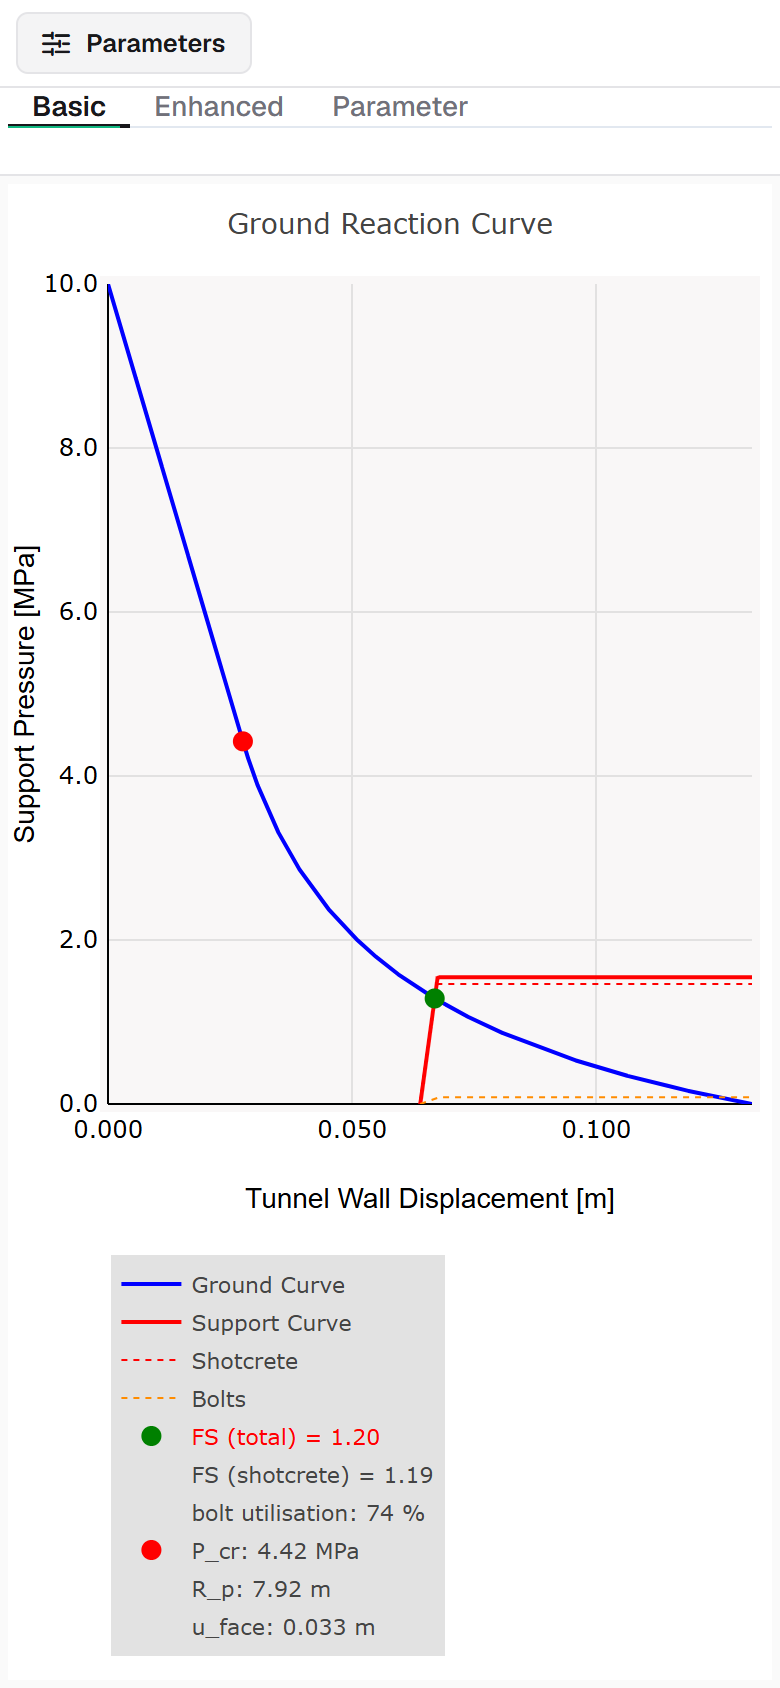
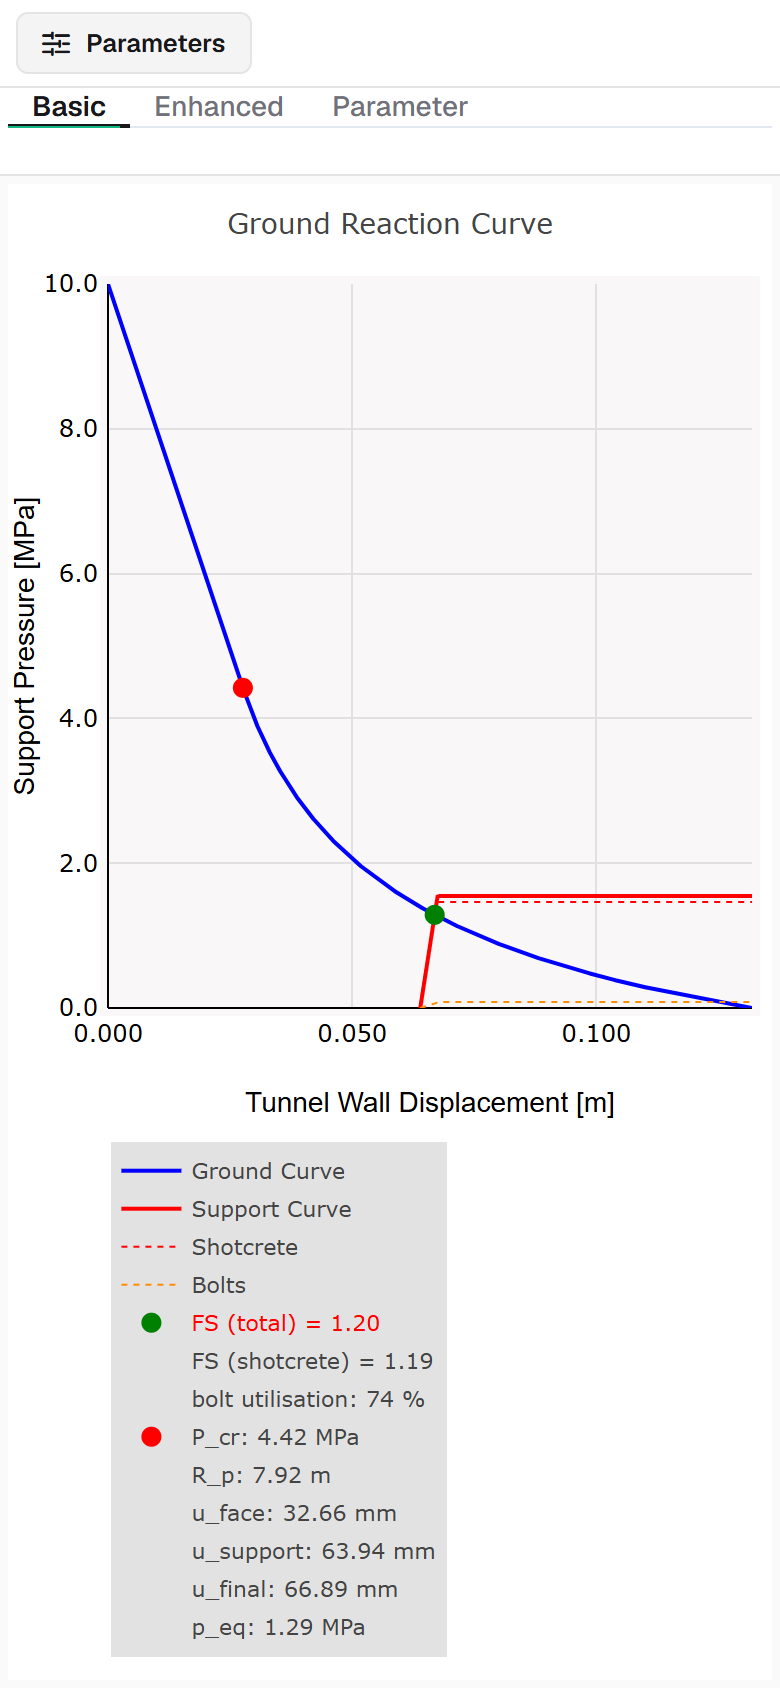
Full hover at the equilibrium and RocSupport-style Basic legend
- Hover at the equilibrium point (Basic and Enhanced) shows u_eq [mm],
  p_eq [MPa] and FS in full via a hovertemplate; hoverlabel.namelength
  -1 so no trace name is cut. The hover comes from an invisible marker
  (size 24) placed first: with the dense ground curve (10000 points) the
  visible marker only won the hover within fractions of a pixel. It now
  wins next to the point; directly on the ground curve line the curve's
  hover still shows.
- Basic legend: u_face in mm (was m), new u_support (u_io), u_final
  (u_eq) in mm with 2 decimals and p_eq in MPa; "-" without equilibrium.
- RocSupport case 3 shows u_face 32.66, u_support 63.94, u_final 67.03 mm,
  FS 1.14 (test in tests/rocsupport_onur.test.js); screenshots Basic
  desktop and phone for case 3, default Basic screenshots updated.

diff --git a/src/physics/groundCurveCalc.js b/src/physics/groundCurveCalc.js
@@ -593,7 +593,19 @@ export function updateGraphic(gamma, H, nu, E, D, c, phi, f_ck, E_c, nu_c, t_c,
         mode: 'markers', type: 'scatter',
         name: !noEquilibrium && Number(safety) < FS_RED_BELOW ? `<span style="color:red">${fsName}</span>` : fsName,
         marker: { color: 'green', size: 10 }, xaxis: 'x1', yaxis: 'y1',
-        ...(noEquilibrium ? { opacity: 0, hoverinfo: 'none', showlegend: true } : {})
+        // the hover at the equilibrium comes from eqHover below
+        ...(noEquilibrium ? { opacity: 0, hoverinfo: 'none', showlegend: true } : { hoverinfo: 'skip' })
+    }
+    // Hover target at the equilibrium point with the full values instead of the (possibly cut) trace
+    // name. It is the first trace: at the marker the ground and support curves are just as close, and
+    // Plotly then shows the first trace.
+    const eqHover = noEquilibrium ? null : {
+        x: [intersect.x], y: [intersect.y], mode: 'markers', type: 'scatter',
+        marker: { color: 'green', size: 24 }, opacity: 0, showlegend: false, xaxis: 'x1', yaxis: 'y1',
+        name: 'equilibrium',
+        hovertemplate: `u_eq = ${(intersect.x * 1000).toFixed(2)} mm<br>` +
+            `p_eq = ${intersect.y.toFixed(3)} MPa<br>` +
+            `${obj.supportComponents ? 'FS (total)' : 'FS'} = ${fsText}<extra></extra>`
     }
     const trace3_1 = {
         x: obj.criticalPoint.x, y: obj.criticalPoint.y,
@@ -606,11 +618,17 @@ export function updateGraphic(gamma, H, nu, E, D, c, phi, f_ck, E_c, nu_c, t_c,
         visible: true, showlegend: true, hoverinfo: 'none', opacity: 0,
         name: `R_p: ${obj.plasticRadius.y[0].toFixed(2)} m`
     }
-    const trace3_4 = {
+    // Basic legend: displacements in mm (2 decimals) as in RocSupport: at the face, at support
+    // installation (u_io) and final at the equilibrium (u_eq), plus the mobilised support pressure
+    const infoEntry = name => ({
         x: [0], y: [0], mode: 'markers', type: 'scatter',
-        visible: true, showlegend: true, hoverinfo: 'none', opacity: 0,
-        name: `u_face: ${obj.u_if.u_if.toFixed(3)} m`
-    }
+        visible: true, showlegend: true, hoverinfo: 'none', opacity: 0, name
+    })
+    const mm = u => `${(u * 1000).toFixed(2)} mm`
+    const trace3_4 = infoEntry(`u_face: ${mm(obj.u_if.u_if)}`)
+    const trace3_5 = infoEntry(`u_support: ${mm(obj.supportCurve.x[0])}`)
+    const trace3_6 = infoEntry(`u_final: ${noEquilibrium ? '–' : mm(intersect.x)}`)
+    const trace3_7 = infoEntry(`p_eq: ${noEquilibrium ? '–' : `${intersect.y.toFixed(2)} MPa`}`)
     const trace3_3 = {
         x: [0], y: [0], mode: 'markers', type: 'scatter',
         visible: true, showlegend: true, hoverinfo: 'none', opacity: 0,
@@ -618,7 +636,7 @@ export function updateGraphic(gamma, H, nu, E, D, c, phi, f_ck, E_c, nu_c, t_c,
     }
 
     const data = [trace1, trace2, trace3, trace3_1]
-    const dataBasic = [trace1, trace2, trace3, trace3_1, trace3_2, trace3_4]
+    const dataBasic = [trace1, trace2, trace3, trace3_1, trace3_2, trace3_4, trace3_5, trace3_6, trace3_7]
     const legendOnly = name => ({
         x: [0], y: [0], mode: 'markers', type: 'scatter',
         visible: true, showlegend: true, hoverinfo: 'none', opacity: 0, name
@@ -668,6 +686,10 @@ export function updateGraphic(gamma, H, nu, E, D, c, phi, f_ck, E_c, nu_c, t_c,
     if (options.showLargeStrain) {
         data.splice(1, 0, trace1_1)
         dataBasic.splice(1, 0, trace1_1)
+    }
+    if (eqHover) {
+        data.unshift(eqHover)
+        dataBasic.unshift(eqHover)
     }
 
     let verticalLines = []
@@ -761,7 +783,7 @@ export function updateGraphic(gamma, H, nu, E, D, c, phi, f_ck, E_c, nu_c, t_c,
     const layout = {
         title: { text: 'Ground Reaction Curve', font: { size: 18 } }, plot_bgcolor: '#f9f7f7', showlegend: true,
         margin: { l: 60, r: 30, b: 60, t: 50, pad: 4 },
-        autosize: true, hovermode: 'closest',
+        autosize: true, hovermode: 'closest', hoverlabel: { namelength: -1 },   // never cut trace names
         xaxis: { rangemode: 'normal', title: { text: 'Tunnel Wall Displacement [m]', font: { family: 'Arial, sans-serif', size: 13 } }, color: 'black', range: [0, maxX], tickformat: '.3f', domain: [0, 0.47], anchor: 'y2' },
         xaxis2: { title: { text: 'Time [days]', font: { family: 'Arial, sans-serif', size: 13 } }, color: 'black', tickformat: '.2f', domain: [0.55, 1], anchor: 'y4' },
         yaxis: { tickformat: '.1f', title: { text: 'Support Pressure [MPa]', font: { family: 'Arial, sans-serif', size: 13 } }, color: 'black', range: [0, maxY], domain: [0.55, 1], rangemode: 'nonnegative' },
@@ -775,7 +797,7 @@ export function updateGraphic(gamma, H, nu, E, D, c, phi, f_ck, E_c, nu_c, t_c,
     const layoutBasic = {
         title: { text: 'Ground Reaction Curve', font: { size: 18 } }, plot_bgcolor: '#f9f7f7', showlegend: true,
         margin: { l: 60, r: 30, b: 60, t: 50, pad: 4 },
-        autosize: true, hovermode: 'closest',
+        autosize: true, hovermode: 'closest', hoverlabel: { namelength: -1 },   // never cut trace names
         xaxis: { rangemode: 'nonnegative', title: { text: 'Tunnel Wall Displacement [m]', font: { family: 'Arial, sans-serif', size: 14 } }, color: 'black', range: [0, maxX], tickformat: '.3f' },
         yaxis: { scaleratio: 0.4, tickformat: '.1f', title: { text: 'Support Pressure [MPa]', font: { family: 'Arial, sans-serif', size: 14 } }, color: 'black', range: [0, maxY], rangemode: 'nonnegative' },
         legend: { traceorder: 'normal', font: { family: 'Arial, sans-serif', size: 16, color: '#000' }, bgcolor: '#E2E2E2', bordercolor: '#FFFFFF', borderwidth: 1.7, x: 0.99, xanchor: 'right', y: 0.99 }

diff --git a/tests/rocsupport_onur.test.js b/tests/rocsupport_onur.test.js
@@ -5,7 +5,9 @@
 // FS is taken unrounded as p_max / p_eq (the app string has three decimals).
 import { test } from 'node:test'
 import assert from 'node:assert/strict'
-import { run } from './helpers.js'
+import { run, ARG_ORDER } from './helpers.js'
+import { updateGraphic } from '../src/physics/groundCurveCalc.js'
+import { calls } from './stubs/plotly.js'
 
 const FALL_1 = {
     D: 10, gamma: 20, H: 350, E: 1800, nu: 0.3, c: 1500, phi: 23, dis_sup: 5, advance_rate: 2,
@@ -67,4 +69,23 @@ test('RocSupport Fall 3 (Nr.3, shotcrete): D 8 m, p0 10 MPa, d_face 2 m (app def
         ['u_face_mm', 32.66, 2], ['u_io_mm', 63.94, 2], ['r_p_m', 7.92, 2], ['p_max', 1.463, 3],
         ['u_eq_mm', 67.03, 2], ['p_eq', 1.28, 2], ['FS', 1.14, 2]
     ])
+})
+
+// Basic legend and hover at the equilibrium show the RocSupport output quantities (mm, 2 decimals)
+test('RocSupport Fall 3: Basic legend u_face 32.66 / u_support 63.94 / u_final 67.03 mm, FS 1.14; full hover', () => {
+    calls.length = 0
+    updateGraphic(...ARG_ORDER.map(k => FALL_3[k]), {})
+    const basic = calls.find(c => c.id === 'graphBasic')
+    const names = basic.data.map(t => t.name ?? '')
+    for (const entry of ['u_face: 32.66 mm', 'u_support: 63.94 mm', 'u_final: 67.03 mm', 'p_eq: 1.28 MPa']) {
+        assert.ok(names.includes(entry), `${entry} in ${JSON.stringify(names)}`)
+    }
+    assert.ok(names.some(n => /FS\. 1\.14/.test(n)), 'FS 1.14')
+    // hover target at the equilibrium (invisible, first trace) with the full values; the legend marker
+    // itself does not hover
+    const eq = basic.data.find(t => t.name === 'equilibrium')
+    assert.equal(basic.data.indexOf(eq), 0)
+    assert.equal(basic.data.find(t => /FS\. 1\.14/.test(t.name ?? '')).hoverinfo, 'skip')
+    assert.equal(eq.hovertemplate, 'u_eq = 67.03 mm<br>p_eq = 1.282 MPa<br>FS = 1.14<extra></extra>')
+    for (const c of calls) assert.equal(c.layout.hoverlabel.namelength, -1)
 })

diff --git a/tests/equilibrium.test.js b/tests/equilibrium.test.js
@@ -168,3 +168,10 @@ test('No support at all: message instead of empty plots, FS shown as "–"', () 
     }
     for (const shown of ['Org. LDP', 'Stress (target)']) assert.ok(names(graph).includes(shown), shown)
 })
+
+test('No equilibrium: Basic legend u_final and p_eq shown as "–"', () => {
+    const { graphBasic } = plots({ ...ROC_SPC, t_c: 0, t_bf: 0 })
+    assert.ok(names(graphBasic).includes('u_final: –'))
+    assert.ok(names(graphBasic).includes('p_eq: –'))
+    assert.ok(names(graphBasic).some(n => /^u_support: \d+\.\d\d mm$/.test(n)))
+})

diff --git a/STATUS.md b/STATUS.md
@@ -5,7 +5,7 @@ Stand: 2026-10-21, Branch `web` (nicht gemergt).
 ## Erledigt
 
 - Electron vollständig entfernt; reine Vite-Web-App (`npm run dev | build | preview | test`), Ausgabe `dist/`.
-- Prüffälle mit `node --test` (`npm run test`, 36 Tests grün):
+- Prüffälle mit `node --test` (`npm run test`, 38 Tests grün):
   - Hoek, *Rock-Support Interaction* Fig. 4/6/7/13 (D 10 m, c 1500 kPa, φ 23°, E 1800 MPa, ν 0,3, p0 7 MPa, d_face 5 m):
     alle Sollwerte innerhalb der Rundung der Quelle; u_if/u_im 0,2625 vs. 0,2622 (Hoek dividiert durch gerundetes u_im).
   - RocSupport Verification Manual Problem 5 (r_pm, 4 Fälle): Abweichungen ≤ 0,005 m.
@@ -19,6 +19,9 @@ Stand: 2026-10-21, Branch `web` (nicht gemergt).
   - Golden Values unter `tests/golden/`: Werte aus der App selbst, keine Quellenwerte; zuletzt mit Entscheid 2
     (ideal-plastisch) neu erzeugt.
 - Parameter-Tab, optionale Large-strain-Kurve (nur Darstellung), `public/_headers`, Favicon.
+- Basic-Legende wie RocSupport: u_face, u_support (u_io), u_final (u_eq) in mm, p_eq in MPa („–“ ohne Gleichgewicht);
+  Hover am Gleichgewichtspunkt mit u_eq, p_eq, FS; Trace-Namen im Hover nie gekürzt. Prüffall RocSupport Nr. 3
+  (`tests/rocsupport_onur.test.js`), Screenshots `desktop_basic_rocsupport_case3.png`, `phone_basic_rocsupport_case3.png`.
 - Handy-Layout (≤ 768 px): Seitenleiste einklappbar, Diagramm volle Breite, Legende unter dem Diagramm,
   keine Plotly-Werkzeugleiste, Enhanced-Tab mit vier untereinander liegenden Diagrammen (scrollbar).
 - LSC einstufig nach Gschwandtner (2010):

diff --git a/README.md b/README.md
@@ -72,6 +72,10 @@ A web application for analytical pre-design of tunnel support using the **Conver
   Values above 100 % indicate overload; the rate-of-flow method does not limit stress to strength.
   Above 100 %: red dashed line and shaded band
 - **Safety factor FS** — at GRC ∩ SCC equilibrium (all support-curve segments including the plateaus are searched, so FS > 10 is found as well)
+- **Basic legend** — R_p, u_face (displacement at the face), u_support (at support installation, u_io),
+  u_final (at the equilibrium, u_eq) in mm and p_eq (mobilised support pressure) in MPa, as in the RocSupport
+  output; "–" when there is no equilibrium. Hovering the equilibrium point shows u_eq, p_eq and FS in full
+  (hover names are never cut)
 - **Parameter tab** — summary of all 20 input parameters with units
 - **Phone layout** (≤ 768 px) — parameter sidebar behind a *Parameters* button, full-width charts, legend below the chart, no mode bar; the Enhanced tab stacks its four plots and scrolls
 
